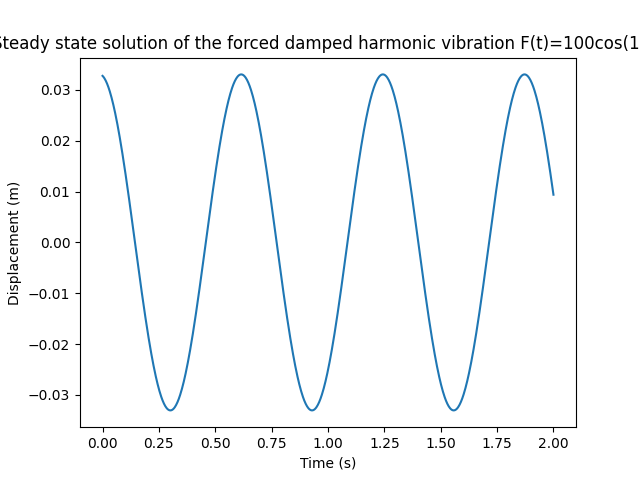
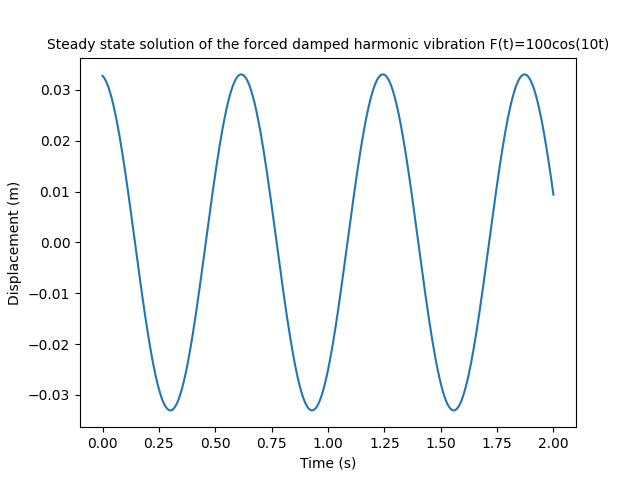
question 2 plot font size adjust

Changed region(s): [[0.0, 0.0625, 1.0, 0.125]]

diff --git a/question2.py b/question2.py
@@ -55,7 +55,7 @@ def plot_soln(F0, k, m, c,force_freq,t,x0,v0,fignum):
     plt.plot(t,steady_state_soln(F0, k, m, c,force_freq,t))
     plt.xlabel('Time (s)')
     plt.ylabel('Displacement (m)')
-    plt.title('Steady state solution of the forced damped harmonic vibration F(t)='+str(F0)+'cos('+str(force_freq)+'t)')
+    plt.title('Steady state solution of the forced damped harmonic vibration F(t)='+str(F0)+'cos('+str(force_freq)+'t)',fontdict={'fontsize': 10})
     plt.savefig(fignum+'steady state solution.png')
     plt.show()
 
